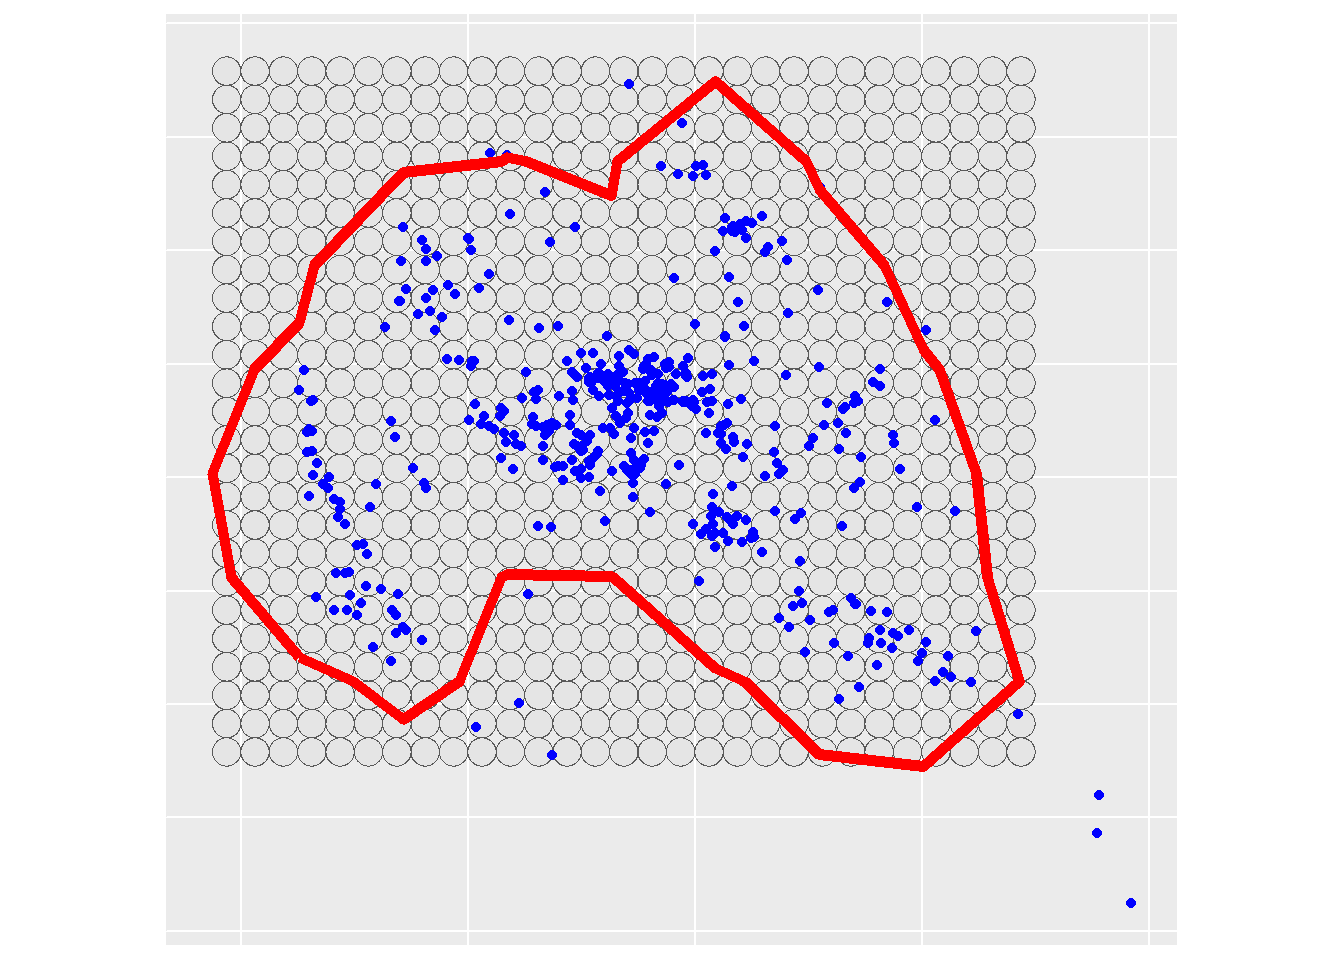
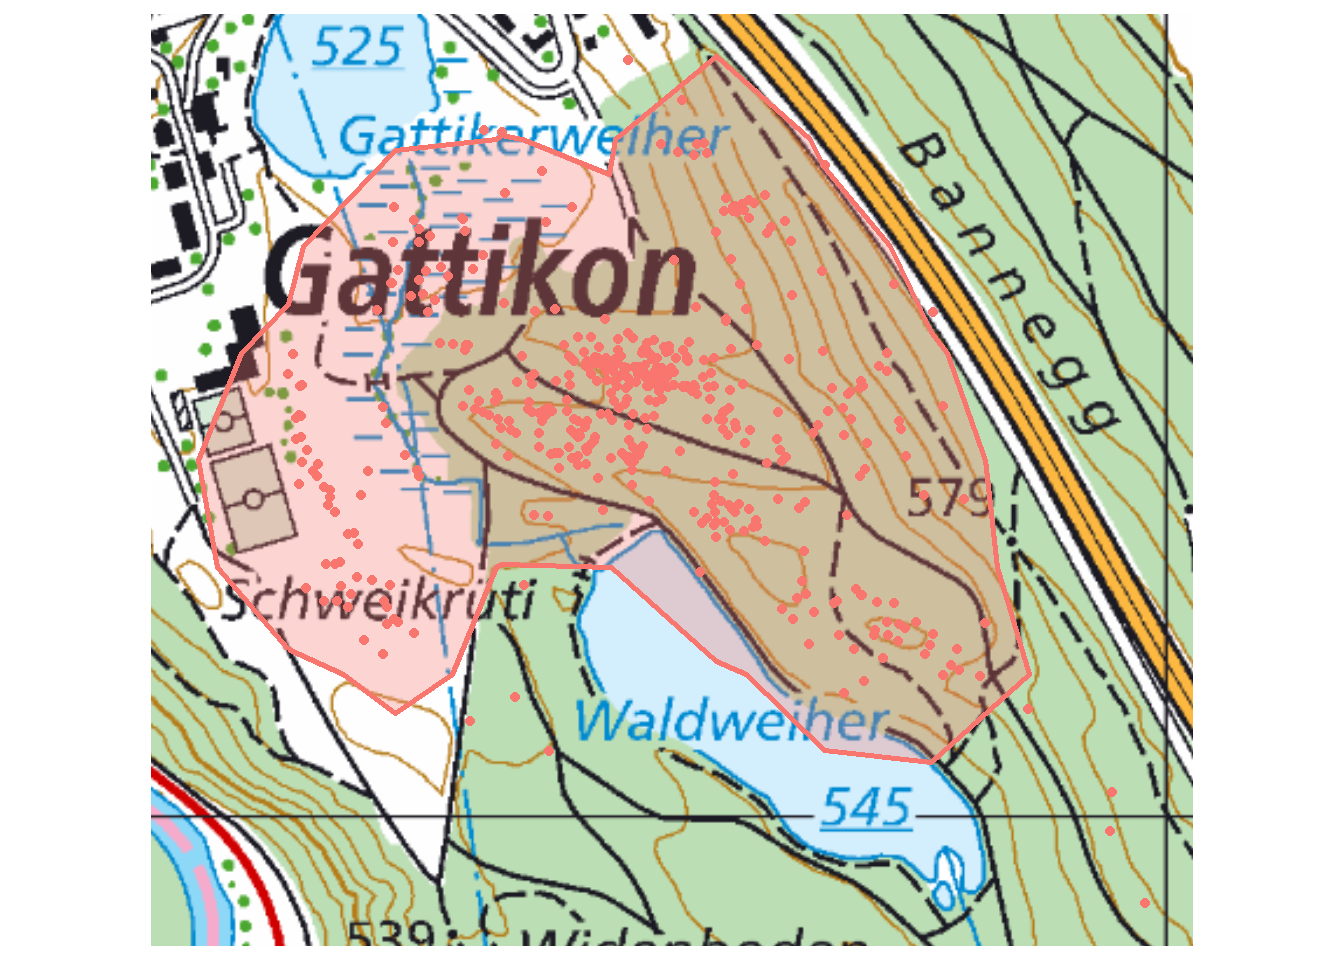
Built site for gh-pages

diff --git a/fallstudie_n/3_Berechnung_Homeranges.html b/fallstudie_n/3_Berechnung_Homeranges.html
@@ -781,6 +781,26 @@ pre > code.sourceCode > span > a:first-child::before { text-decoration: underlin
 </details>
 </div>
 <p>Die Grafik kommt noch nicht sehr schön daher, versucht zur besseren Orientierung die Homerange mit dieser Pixelkarte (Landeskarte 1:25000, auf Moodle) im Hintergrund zu plotten.</p>
+<div class="cell">
+<div class="code-copy-outer-scaffold"><div class="sourceCode cell-code" id="cb10"><pre class="sourceCode r code-with-copy"><code class="sourceCode r"><span id="cb10-1"><a href="#cb10-1" aria-hidden="true" tabindex="-1"></a><span class="fu">ggplot</span>(hr, <span class="fu">aes</span>(<span class="at">color =</span> <span class="st">"red"</span>, <span class="at">fill =</span> <span class="st">"red"</span>)) <span class="sc">+</span></span>
+<span id="cb10-2"><a href="#cb10-2" aria-hidden="true" tabindex="-1"></a>  <span class="fu">annotation_spatial</span>(pk25_wpz) <span class="sc">+</span></span>
+<span id="cb10-3"><a href="#cb10-3" aria-hidden="true" tabindex="-1"></a>  <span class="fu">geom_sf</span>(<span class="at">size =</span> <span class="dv">1</span>, <span class="at">alpha =</span> <span class="fl">0.3</span>) <span class="sc">+</span></span>
+<span id="cb10-4"><a href="#cb10-4" aria-hidden="true" tabindex="-1"></a>  <span class="fu">geom_sf</span>(<span class="at">data =</span> RE13, <span class="fu">aes</span>(<span class="at">fill =</span> <span class="st">"red"</span>)) <span class="sc">+</span></span>
+<span id="cb10-5"><a href="#cb10-5" aria-hidden="true" tabindex="-1"></a>  <span class="fu">coord_sf</span>(<span class="at">datum =</span> sf<span class="sc">::</span><span class="fu">st_crs</span>(<span class="dv">21781</span>)) <span class="sc">+</span></span>
+<span id="cb10-6"><a href="#cb10-6" aria-hidden="true" tabindex="-1"></a>  <span class="fu">theme</span>(</span>
+<span id="cb10-7"><a href="#cb10-7" aria-hidden="true" tabindex="-1"></a>    <span class="at">axis.title =</span> <span class="fu">element_blank</span>(),</span>
+<span id="cb10-8"><a href="#cb10-8" aria-hidden="true" tabindex="-1"></a>    <span class="at">axis.text =</span> <span class="fu">element_blank</span>(),</span>
+<span id="cb10-9"><a href="#cb10-9" aria-hidden="true" tabindex="-1"></a>    <span class="at">axis.ticks =</span> <span class="fu">element_blank</span>(),</span>
+<span id="cb10-10"><a href="#cb10-10" aria-hidden="true" tabindex="-1"></a>    <span class="at">legend.position =</span> <span class="st">"none"</span></span>
+<span id="cb10-11"><a href="#cb10-11" aria-hidden="true" tabindex="-1"></a>  )</span></code></pre></div><button title="In die Zwischenablage kopieren" class="code-copy-button"><i class="bi"></i></button></div>
+<div class="cell-output-display">
+<div>
+<figure class="figure">
+<p><img src="3_Berechnung_Homeranges_files/figure-html/unnamed-chunk-8-1.png" class="img-fluid figure-img" width="672"></p>
+</figure>
+</div>
+</div>
+</div>
 </section>
 <section id="aufgabe-2.4" class="level3">
 <h3 class="anchored" data-anchor-id="aufgabe-2.4">Aufgabe 2.4</h3>
@@ -790,23 +810,23 @@ pre > code.sourceCode > span > a:first-child::before { text-decoration: underlin
 <li>Cellsize des Grids: 25m</li>
 </ul>
 <div class="cell">
-<div class="code-copy-outer-scaffold"><div class="sourceCode cell-code" id="cb10"><pre class="sourceCode r code-with-copy"><code class="sourceCode r"><span id="cb10-1"><a href="#cb10-1" aria-hidden="true" tabindex="-1"></a>x25 <span class="ot">&lt;-</span> <span class="fu">st_as_sf</span>(<span class="fu">st_make_grid</span>(hr, <span class="dv">25</span>, <span class="at">what =</span> <span class="st">"centers"</span>)) <span class="co"># Mittelpunkte in einem Raster mit 25m Auflösung generieren</span></span>
-<span id="cb10-2"><a href="#cb10-2" aria-hidden="true" tabindex="-1"></a></span>
-<span id="cb10-3"><a href="#cb10-3" aria-hidden="true" tabindex="-1"></a><span class="co">#x25 &lt;- st_filter(x25, hr, .predicate = st_within) # Falls nur Zentren innerhalb der Homerange behalten werden sollen</span></span>
-<span id="cb10-4"><a href="#cb10-4" aria-hidden="true" tabindex="-1"></a></span>
-<span id="cb10-5"><a href="#cb10-5" aria-hidden="true" tabindex="-1"></a>grid_plot <span class="ot">&lt;-</span> <span class="fu">st_buffer</span>(x25, <span class="fl">12.5</span>) <span class="co"># Kreise mit Radius 12.5 m erzeugen</span></span>
-<span id="cb10-6"><a href="#cb10-6" aria-hidden="true" tabindex="-1"></a></span>
-<span id="cb10-7"><a href="#cb10-7" aria-hidden="true" tabindex="-1"></a><span class="fu">ggplot</span>() <span class="sc">+</span></span>
-<span id="cb10-8"><a href="#cb10-8" aria-hidden="true" tabindex="-1"></a>  <span class="fu">geom_sf</span>(<span class="at">data =</span> grid_plot, <span class="at">color =</span> <span class="st">"black"</span>, <span class="at">fill =</span> <span class="cn">NA</span>) <span class="sc">+</span></span>
-<span id="cb10-9"><a href="#cb10-9" aria-hidden="true" tabindex="-1"></a>  <span class="fu">geom_sf</span>(<span class="at">data =</span> RE13, <span class="at">color =</span> <span class="st">"blue"</span>) <span class="sc">+</span></span>
-<span id="cb10-10"><a href="#cb10-10" aria-hidden="true" tabindex="-1"></a>  <span class="fu">geom_sf</span>(<span class="at">data =</span> hr, <span class="at">color =</span> <span class="st">"red"</span>, <span class="at">fill =</span> <span class="cn">NA</span>, <span class="at">linewidth =</span> <span class="dv">2</span>) <span class="sc">+</span></span>
-<span id="cb10-11"><a href="#cb10-11" aria-hidden="true" tabindex="-1"></a>  <span class="fu">coord_sf</span>(<span class="at">datum =</span> <span class="dv">21781</span>) <span class="sc">+</span></span>
-<span id="cb10-12"><a href="#cb10-12" aria-hidden="true" tabindex="-1"></a>  <span class="fu">theme</span>(</span>
-<span id="cb10-13"><a href="#cb10-13" aria-hidden="true" tabindex="-1"></a>    <span class="at">axis.title =</span> <span class="fu">element_blank</span>(),</span>
-<span id="cb10-14"><a href="#cb10-14" aria-hidden="true" tabindex="-1"></a>    <span class="at">axis.text =</span> <span class="fu">element_blank</span>(),</span>
-<span id="cb10-15"><a href="#cb10-15" aria-hidden="true" tabindex="-1"></a>    <span class="at">axis.ticks =</span> <span class="fu">element_blank</span>(),</span>
-<span id="cb10-16"><a href="#cb10-16" aria-hidden="true" tabindex="-1"></a>    <span class="at">legend.position =</span> <span class="st">"none"</span></span>
-<span id="cb10-17"><a href="#cb10-17" aria-hidden="true" tabindex="-1"></a>  )</span></code></pre></div><button title="In die Zwischenablage kopieren" class="code-copy-button"><i class="bi"></i></button></div>
+<div class="code-copy-outer-scaffold"><div class="sourceCode cell-code" id="cb11"><pre class="sourceCode r code-with-copy"><code class="sourceCode r"><span id="cb11-1"><a href="#cb11-1" aria-hidden="true" tabindex="-1"></a>x25 <span class="ot">&lt;-</span> <span class="fu">st_as_sf</span>(<span class="fu">st_make_grid</span>(hr, <span class="dv">25</span>, <span class="at">what =</span> <span class="st">"centers"</span>)) <span class="co"># Mittelpunkte in einem Raster mit 25m Auflösung generieren</span></span>
+<span id="cb11-2"><a href="#cb11-2" aria-hidden="true" tabindex="-1"></a></span>
+<span id="cb11-3"><a href="#cb11-3" aria-hidden="true" tabindex="-1"></a><span class="co">#x25 &lt;- st_filter(x25, hr, .predicate = st_within) # Falls nur Zentren innerhalb der Homerange behalten werden sollen</span></span>
+<span id="cb11-4"><a href="#cb11-4" aria-hidden="true" tabindex="-1"></a></span>
+<span id="cb11-5"><a href="#cb11-5" aria-hidden="true" tabindex="-1"></a>grid_plot <span class="ot">&lt;-</span> <span class="fu">st_buffer</span>(x25, <span class="fl">12.5</span>) <span class="co"># Kreise mit Radius 12.5 m erzeugen</span></span>
+<span id="cb11-6"><a href="#cb11-6" aria-hidden="true" tabindex="-1"></a></span>
+<span id="cb11-7"><a href="#cb11-7" aria-hidden="true" tabindex="-1"></a><span class="fu">ggplot</span>() <span class="sc">+</span></span>
+<span id="cb11-8"><a href="#cb11-8" aria-hidden="true" tabindex="-1"></a>  <span class="fu">geom_sf</span>(<span class="at">data =</span> grid_plot, <span class="at">color =</span> <span class="st">"black"</span>, <span class="at">fill =</span> <span class="cn">NA</span>) <span class="sc">+</span></span>
+<span id="cb11-9"><a href="#cb11-9" aria-hidden="true" tabindex="-1"></a>  <span class="fu">geom_sf</span>(<span class="at">data =</span> RE13, <span class="at">color =</span> <span class="st">"blue"</span>) <span class="sc">+</span></span>
+<span id="cb11-10"><a href="#cb11-10" aria-hidden="true" tabindex="-1"></a>  <span class="fu">geom_sf</span>(<span class="at">data =</span> hr, <span class="at">color =</span> <span class="st">"red"</span>, <span class="at">fill =</span> <span class="cn">NA</span>, <span class="at">linewidth =</span> <span class="dv">2</span>) <span class="sc">+</span></span>
+<span id="cb11-11"><a href="#cb11-11" aria-hidden="true" tabindex="-1"></a>  <span class="fu">coord_sf</span>(<span class="at">datum =</span> <span class="dv">21781</span>) <span class="sc">+</span></span>
+<span id="cb11-12"><a href="#cb11-12" aria-hidden="true" tabindex="-1"></a>  <span class="fu">theme</span>(</span>
+<span id="cb11-13"><a href="#cb11-13" aria-hidden="true" tabindex="-1"></a>    <span class="at">axis.title =</span> <span class="fu">element_blank</span>(),</span>
+<span id="cb11-14"><a href="#cb11-14" aria-hidden="true" tabindex="-1"></a>    <span class="at">axis.text =</span> <span class="fu">element_blank</span>(),</span>
+<span id="cb11-15"><a href="#cb11-15" aria-hidden="true" tabindex="-1"></a>    <span class="at">axis.ticks =</span> <span class="fu">element_blank</span>(),</span>
+<span id="cb11-16"><a href="#cb11-16" aria-hidden="true" tabindex="-1"></a>    <span class="at">legend.position =</span> <span class="st">"none"</span></span>
+<span id="cb11-17"><a href="#cb11-17" aria-hidden="true" tabindex="-1"></a>  )</span></code></pre></div><button title="In die Zwischenablage kopieren" class="code-copy-button"><i class="bi"></i></button></div>
 <div class="cell-output-display">
 <div>
 <figure class="figure">
